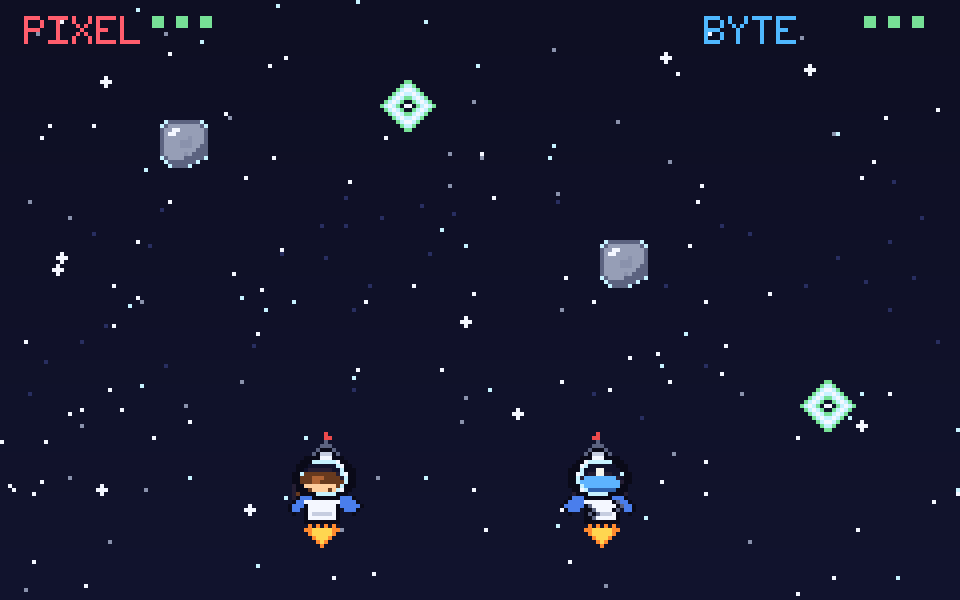
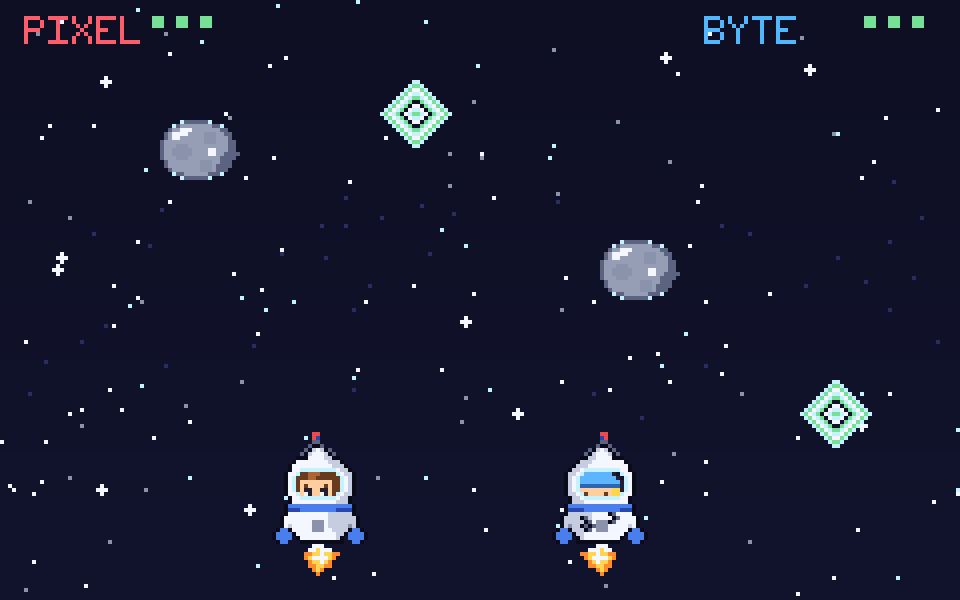
Meteor Derby: upgrade shuttle + obstacle art (detail, shading, depth)
Bigger pod with a blue-rimmed glass dome (pilot clearly visible), hull
shading (white-lit left, shadowed right), blue band + swept fins, and a
layered white-hot/yellow/orange flame; clearer hit-1/hit-2 damage.
Cratered, directionally-lit meteor and a faceted glowing ice-crystal.

Claude-Session: https://claude.ai/code/session_01BmHu9ZjHHfJoGBLXT33Kpc

diff --git a/art/space.py b/art/space.py
@@ -42,89 +42,89 @@ def blit(img, rows, ox, oy, pal=PAL, flip=False):
 
 # --------------------------------------------------------------------------
 # the shuttle pod. '.' inside the dome is transparent so the pilot shows through.
+# left side is white-lit (W), right side falls into shadow (S/s) for roundness.
 SHUTTLE = spr("""
-...........R........
-...........RR.......
-...........t........
-..........ttt.......
-.........tKKKt......
-........tKSSSKt.....
-.......KKK...KKK....
-......KK.......KK...
-.....KK.........KK..
-....KK...........KK.
-....K.............K.
-....K.............K.
-....K.............K.
-....KK...........KK.
-.....KK.........KK..
-......KKK.....KKK...
-....KBBBKKKKKKKBBBK.
-...KBBWWWWWWWWWBBBBK
-..KBBBKWWWWWWWKBBBBBK
-..KBB.KWWWWWWWK.BBBK
-...K..KWSSSSSWK...K.
-......KWWWWWWWK.....
-......KKKKKKKKK.....
-.......O.O.O.O......
-......OOYYYYYOO.....
-.......OYYYYYO......
-........OYYYO.......
-.........OYO........
-..........O........
+..........RR..........
+..........Rb..........
+..........tt..........
+.........tKKt.........
+........tKSWSKt........
+.......tKSWWWSKt.......
+......KKKWWWWSSKK......
+.....KWWWWWWWWSSSK.....
+....KWWWWWWWWWWSSSK....
+....KWWCCCCCCCCCWSSK...
+...KWWC.........CWSSK..
+...KWC...........CWSK..
+...KWC...........CWSK..
+...KWC...........CWSK..
+...KWC...........CWSK..
+...KWWC.........CWSSK..
+....KWWCCCCCCCCCWSSK...
+....KWWWWWWWWWWWSSSK...
+...KBBBBBBBBBBBBBBBBK..
+...KbbbBBBBBBBBBbbbbK..
+...KWWWWWWWWWWSSSSSSK..
+..KWWWWWWWWWWWSSSSSSSK.
+..KWWWWWWWsssWSSSSSSSK.
+..KWSWWWWWsssWSSSSSsSK.
+.KBBKWWWWWsssWWSSSSKBBK
+KBBBBKWWWWWWWWWWSSKBBBBK
+KBBBB.KWWWWWWWWWSK.BBBBK
+.KBB...KKKKKKKKKKK..BBK.
+..........WWW..........
+.........WWYWWW........
+........OOYYWYYOO......
+........OYWWWWYO.......
+.........OYYWYO........
+.........OOYYOO........
+..........OYO.........
+...........O..........
 """)
 
-# round glass dome ring (drawn over the pilot's head)
-DOME = spr("""
-.....KKKKK.....
-...KKWWWWWKK...
-..KWCCCCCCCWK..
-.KWC.......CWK.
-.KC.........CK.
-KWC.........CWK
-KC...........CK
-KC...........CK
-.KC.........CK.
-.KWC.......CWK.
-..KWCCCCCCCWK..
-...KKWWWWWKK...
-.....KKKKK.....
-""")
-
+# a cratered asteroid — lit from the upper-left, shadowed lower-right
 METEOR = spr("""
-.CttttttttC.
-CtMMMMMMMMtC
-tMMWWMMMMMMt
-tMWWMMMMMMMt
-tMMMMMMsMMMt
-tMMMMsssMMMt
-tMMMMsssMMtt
-tMMMMMMMMttt
-tMMMMMsMtttt
-CtMMMMtttttC
-.CtttttttC..
-..CttttC....
+.....CttttttC.....
+...CtMMMMMMMMttC...
+..tMMWWWMMMMMMMtt..
+.tMWWWWMMMMsssMMtt.
+.tMWWMMMMMMsssMMMt.
+tMMMMMMMMMMsssMMMtt
+tMMMsssMMMMMMMMMMtt
+tMMsssssMMMMWWMMMtt
+tMMsssssMMMMWWMMtttt
+tMMMsssMMMMMMMMtttt.
+.tMMMMMMMMsssMMttt..
+.tMMMMMMMMsssMtttt..
+..tMMMMMMMsssMttt...
+...CttMMMMMMtttC...
+.....CttttttC......
 """)
 
+# a glowing ice-crystal cluster — bright core, faceted shards, cyan glow halo
 CRYSTAL = spr("""
-......GG......
-.....GCCG.....
-....GCWWCG....
-...GCWCCWCG...
-..GCWCGGCWCG..
-.GCWCG..GCWCG.
-GCWCG.WW.GCWCG
-.GCWCG..GCWCG.
-..GCWCGGCWCG..
-...GCWCCWCG...
-....GCWWCG....
-.....GCCG.....
-......GG......
+........CC........
+.......CGGC.......
+......CGWWGC......
+.....CGWCCWGC.....
+....CGWCGGCWGC....
+...CGWCG..GCWGC...
+..CGWCG.WW.GCWGC..
+.CGWCG.WCCW.GCWGC.
+CGWCG.WCGGCW.GCWGC
+.CGWCG.WCCW.GCWGC.
+..CGWCG.WW.GCWGC..
+...CGWCG..GCWGC...
+....CGWCGGCWGC....
+.....CGWCCWGC.....
+......CGWWGC......
+.......CGGC.......
+........CC........
 """)
 
 def face(img, name, cx, cy):
-    """draw the pilot's head (top of the fighter sprite) centred in the dome"""
-    rows = fgrid(getattr(C, name)); rw = len(rows[0]); hh = min(9, len(rows))
+    """draw the pilot's head (top of the fighter sprite) centred in the glass dome"""
+    rows = fgrid(getattr(C, name)); rw = len(rows[0]); hh = min(10, len(rows))
     px = img.load()
     for ry in range(hh):
         for rx in range(rw):
@@ -132,24 +132,23 @@ def face(img, name, cx, cy):
             if cc: sp(px, img.width, img.height, cx - rw // 2 + rx, cy - hh // 2 + ry, (*cc, 255))
 
 def shuttle(img, name, cx, topY, flip=False, dmg=0):
-    """compose a pod: pilot head, glass dome, hull, then damage cracks."""
+    """compose a pod: pilot head behind the glass, then the hull (window is
+    transparent so the head shows), then damage cracks."""
     w = len(SHUTTLE[0])
-    domeCx, domeCy = cx, topY + 12
-    face(img, name, domeCx, domeCy + 1)
-    blit(img, DOME, domeCx - len(DOME[0]) // 2, topY + 5)
+    face(img, name, cx - 1, topY + 13)               # pilot head in the dome
     blit(img, SHUTTLE, cx - w // 2, topY, flip=flip)
     if dmg >= 1: _cracks(img, cx, topY, 1)
     if dmg >= 2: _cracks(img, cx, topY, 2)
 
 def _cracks(img, cx, topY, lvl):
     px = img.load(); w = len(SHUTTLE[0]); ox = cx - w // 2
-    seg1 = [(6, 18), (7, 19), (6, 20), (8, 20), (7, 21), (13, 17), (14, 18), (13, 19)]
-    seg2 = [(5, 22), (9, 23), (10, 24), (4, 24), (15, 22), (12, 24), (8, 17), (11, 19), (6, 25)]
+    seg1 = [(7, 21), (8, 22), (7, 23), (9, 23), (8, 24), (14, 20), (15, 21), (14, 22)]
+    seg2 = [(6, 24), (10, 25), (11, 26), (16, 22), (13, 24), (9, 20), (12, 22), (7, 25)]
     for (dx, dy) in (seg1 if lvl == 1 else seg2):
         sp(px, img.width, img.height, ox + dx, topY + dy, col("K"))
         sp(px, img.width, img.height, ox + dx + 1, topY + dy, col("t"))
-    if lvl == 2:                                       # scorch + missing chunk
-        for (dx, dy) in [(3, 23), (16, 21), (4, 25), (15, 24)]:
+    if lvl == 2:                                       # extra scorch
+        for (dx, dy) in [(5, 23), (17, 22), (6, 26), (16, 25)]:
             sp(px, img.width, img.height, ox + dx, topY + dy, col("K"))
 
 def star(img, cx, cy, c="W"):
